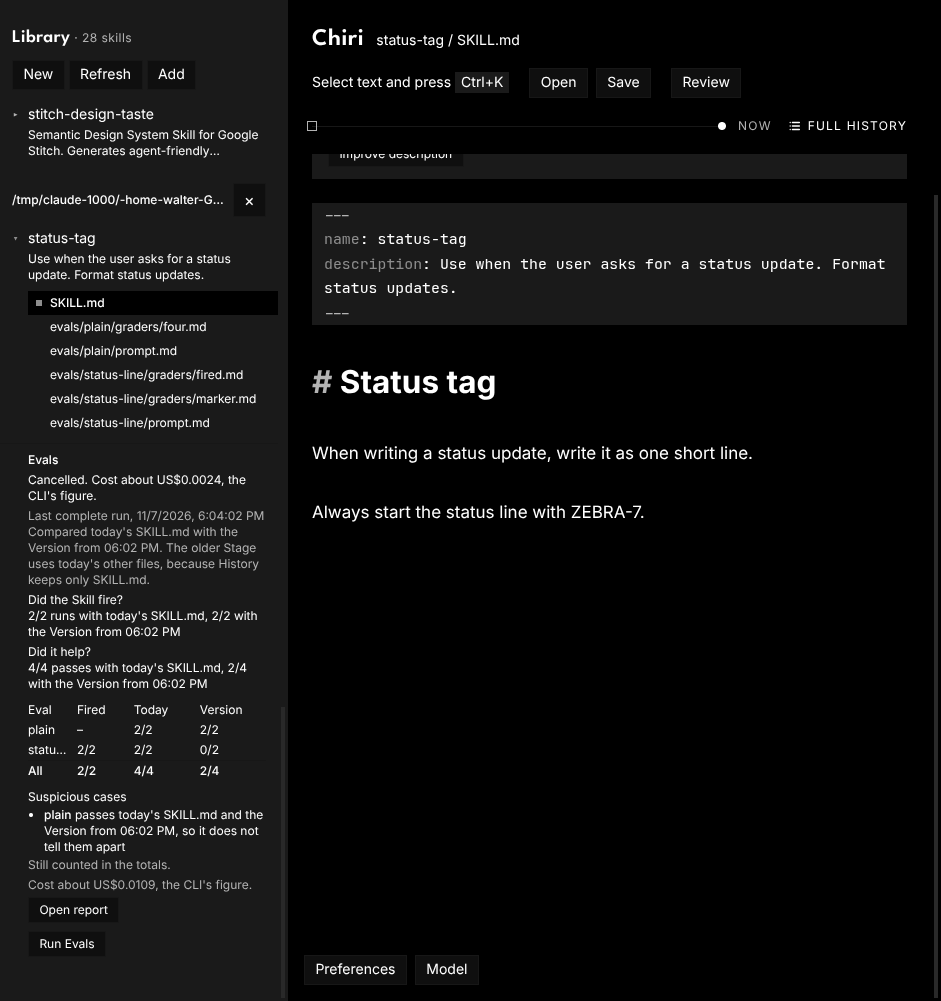
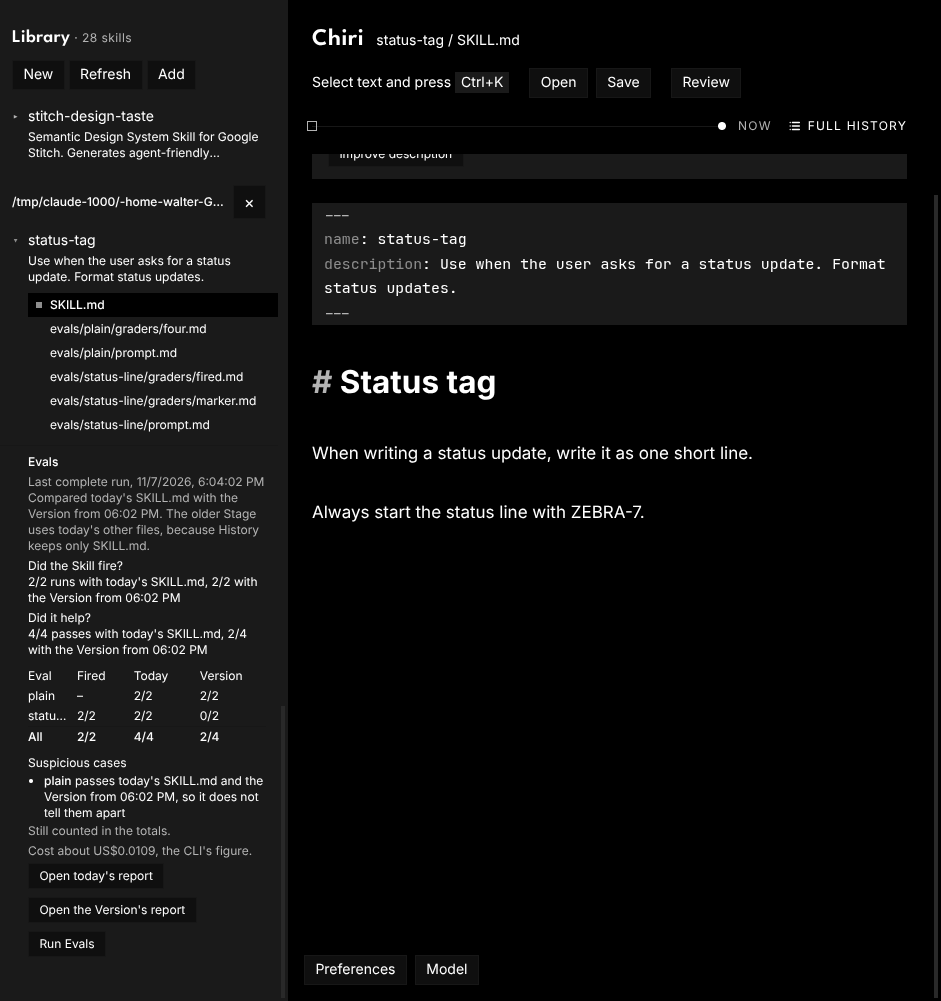
docs: Eval Version baseline review recheck

Changed region(s): [[0.0308, 0.4336, 0.2774, 0.9291], [0.0, 0.1858, 0.2774, 0.4336], [0.0308, 0.0929, 0.2774, 0.1548]]

diff --git a/docs/chiri/verification/90-eval-version-baseline.md b/docs/chiri/verification/90-eval-version-baseline.md
@@ -10,13 +10,25 @@ Real JSON with `--ablation none` (shell probe, US$0.0027): `arms` holds only `wi
 
 | Check | Result |
 |---|---|
-| Dialog: "Compare against" lists No Skill and both Versions as History labels; picking the Started Version re-prepares and shows two risk lists (today's Stage, the Version's Stage), the note that the older Stage has the Version's SKILL.md and today's other files, and that the cost limit covers both runs ([90-2](img/90-2.png)) | Pass |
+| Dialog: "Compare against" lists No Skill and both Versions as History labels; picking the Started Version re-prepares and shows two risk lists (today's Stage, the Version's Stage), the note that the older Stage has the Version's SKILL.md and today's other files, and that the cost limit covers both runs ([90-3](img/90-3.png)) | Pass |
 | Run 1 (Started Version, 2 runs, limit 0.3, cost about US$0.0109): `today` run US$0.0054, `version` run US$0.0055, both with `ablation: none`. Panel: "Compared today's SKILL.md with the Version from 06:02 PM. The older Stage uses today's other files", fired 2/2 and 2/2, "4/4 passes with today's SKILL.md, 2/4 with the Version", table `plain` 2/2 2/2, `status-line` 2/2 today, 0/2 Version; Suspicious: `plain` passes today's SKILL.md and the Version ([90-4](img/90-4.png)) | Pass |
 | `last/` holds `baseline.json`, `today/` and `version/`; no `/tmp/chiri-eval-*` Stage left; no `next/` | Pass |
 | Page reloaded: the panel read the same summary from disk with the baseline named | Pass |
 | Cancel during the second run (5 runs): "Cancelled. Cost about US$0.0195" (first run's cost), both Stages and `next/` gone, `last/` untouched, no `claude` process left | Pass |
 | Cancel during the first run (5 runs): second run never started (only `next/today` existed), "Cancelled. Cost about US$0.0024", both Stages and `next/` gone, no process | Pass |
-| Run button grey in [90-2](img/90-2.png) right after picking a Version (the dialog was refreshing); enabled afterwards, and read enabled 0.5 s to 3 s after a pick in a later check | Not reproduced |
+
+## Review fixes
+
+Rechecked on the same userData after the review fixes, no new model call (the `last/` of run 1 was reused):
+
+| Check | Result |
+|---|---|
+| Panel after restart: two buttons, "Open today's report" and "Open the Version's report"; both opened without an error ([90-4](img/90-4.png)) | Pass |
+| Dialog: the older Version is listed with "(same as saved)" for the Version whose text equals the file on disk ([90-2](img/90-2.png)) | Pass |
+| Dialog right after a pick (read from the DOM 30 ms later, too short for a screenshot): "Compare against" disabled, "Checking this Version…" shown in place of the risk lists, Run disabled; settled state shows both Stages' risk lists ([90-3](img/90-3.png)) | Pass |
+| Run looks grey even when enabled: `text-accent-soft` is a grey in the Omarchy dev theme; `disabled` was false. This explains the grey Run in the first screenshots; it is not a state bug | Explained |
+
+Not shown in the window, covered by tests: stale prepare overlap, stale pick keeping the dialog open, the limit floor, the "half for each side" message.
 
 ## Runs
 
